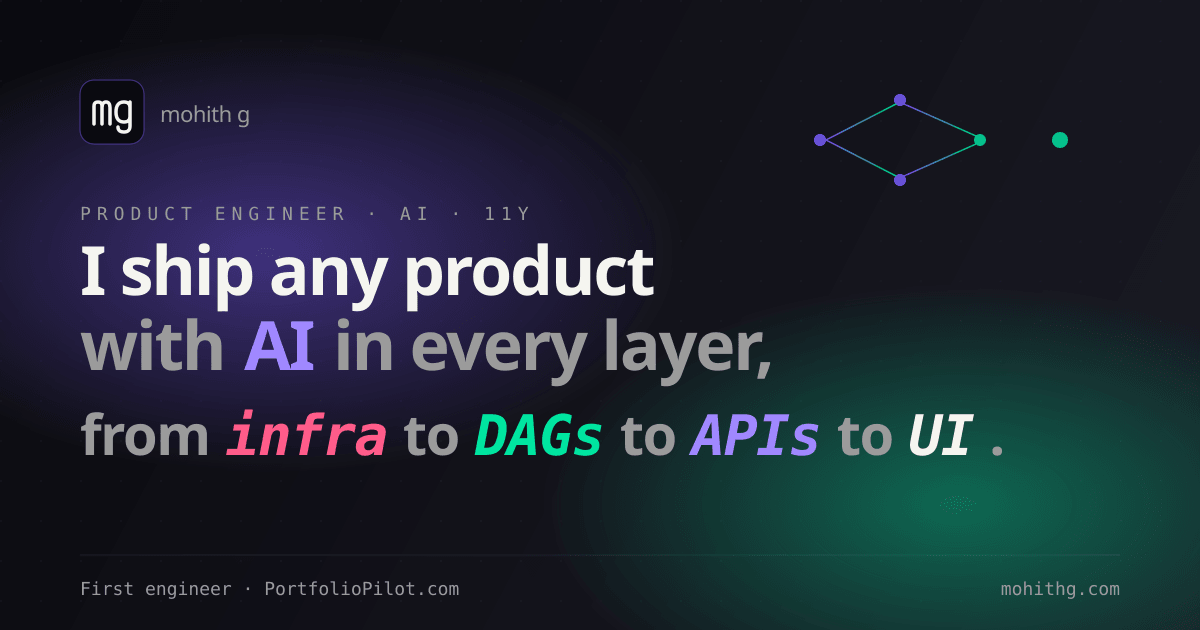
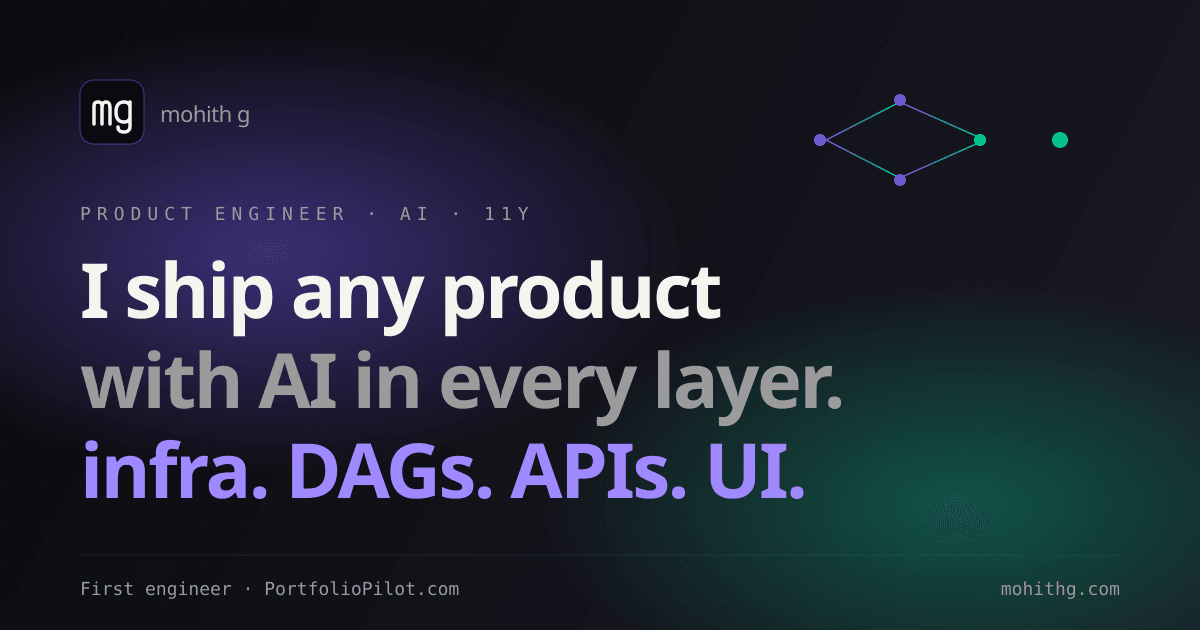
SEO polish: per-page OG, ProfilePage + WebSite schema, Twitter handles
Per-page OG images
- scripts/build-og.mjs now generates 8 cards (default, about, and one
  per case study) instead of just one. Each card uses an accent color
  matching the case-study theme and a 3-line headline that previews
  what the page is about. Run automatically before every astro build.
- Work.astro derives the OG path from URL slug (/work/portfoliopilot
  → /og/portfoliopilot.png) and passes it to Base. Article schema
  now includes the image.
- /about uses /og/about.png explicitly.

Twitter
- SITE.twitterHandle added. Base.astro now emits twitter:site and
  twitter:creator (@user) so cards on Twitter / X attribute
  correctly.

Schema
- Home (/): JSON-LD now ships as @user with both Person (with image,
  expanded knowsAbout, Saveetha as alumniOf) and WebSite (with
  potentialAction SearchAction so Google can render a sitelinks search
  box if it picks the site up).
- /about: ProfilePage schema with embedded Person, image, and full
  sameAs list. Earlier the about page had no schema.
- Case studies: Article schema now includes image (per-page OG),
  dateModified.

What's still missing (out of scope for this pass): Cloudflare Web
Analytics tag (post-deploy), Google Search Console submission (manual),
backlinks (off-page).

Changed region(s): [[0.0617, 0.3921, 0.8325, 0.8143], [0.7708, 0.7841, 0.8325, 0.8746]]

diff --git a/src/lib/site.ts b/src/lib/site.ts
@@ -13,6 +13,7 @@ export const SITE = {
   linkedin: 'https://www.linkedin.com/in/mohithg',
   codepen: 'https://codepen.io/mohithg',
   twitter: 'https://twitter.com/mohithgm',
+  twitterHandle: '@mohithgm',
   location: 'Bengaluru, India',
   timezone: 'Asia/Kolkata',
   tagline: 'Product Engineer · ships any product, with AI in every layer',